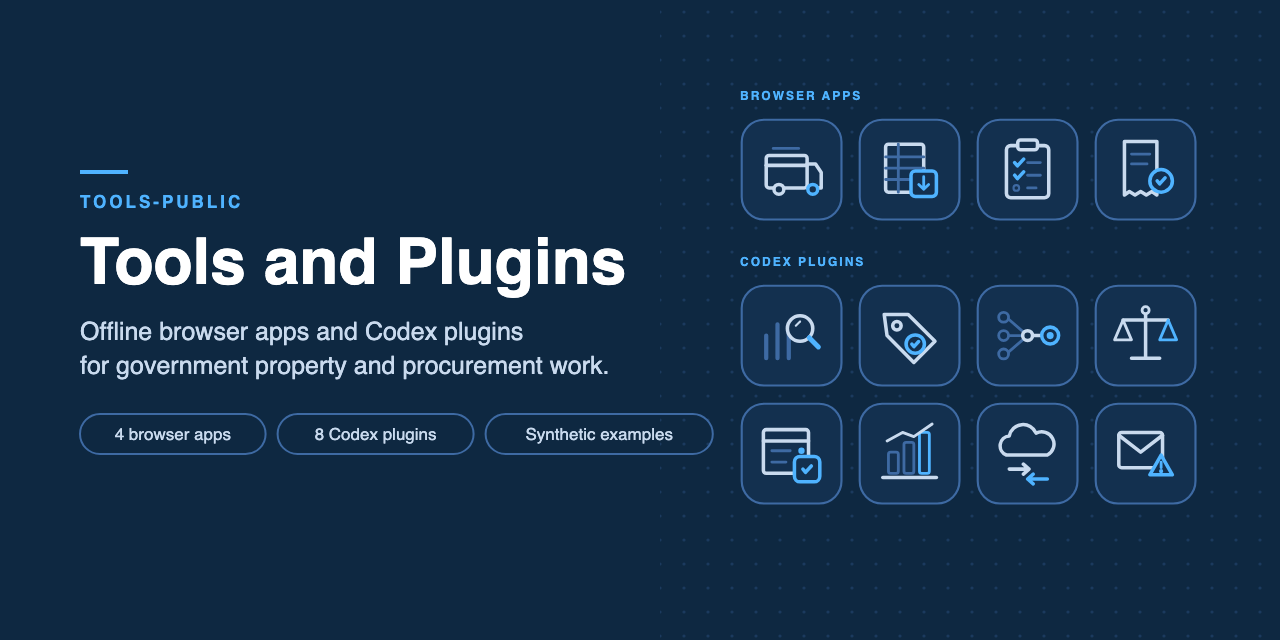
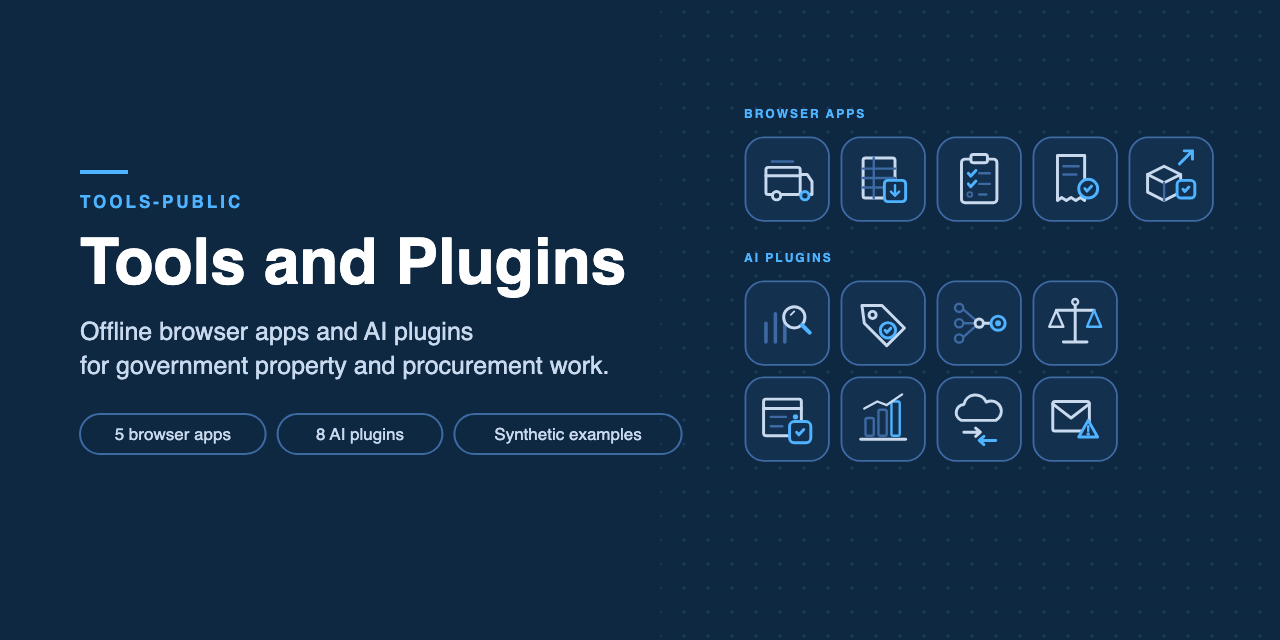
Update profile tools card for AI plugins

diff --git a/README.md b/README.md
@@ -7,7 +7,7 @@ I design and build solutions to complex business, financial, and operational pro
 ## Explore my work
 
 <a href="https://github.com/courtney-chapman/portfolio-public"><img src="images/portfolio.png" alt="Portfolio: governed AI workflows, public demonstrations for federal operations and compliance." width="49%"></a>
-<a href="https://github.com/courtney-chapman/tools-public"><img src="images/tools.png" alt="Tools and Plugins: offline browser apps and Codex plugins for government property and procurement work." width="49%"></a>
+<a href="https://github.com/courtney-chapman/tools-public"><img src="images/tools.png" alt="Tools and Plugins: offline browser apps and AI plugins for government property and procurement work." width="49%"></a>
 
 - [Project Portfolio](https://github.com/courtney-chapman/portfolio-public) — case studies, project documentation, and demonstrations on GitHub.
 - [Tools & Plugins](https://github.com/courtney-chapman/tools-public) — reusable tools for professional workflows.
